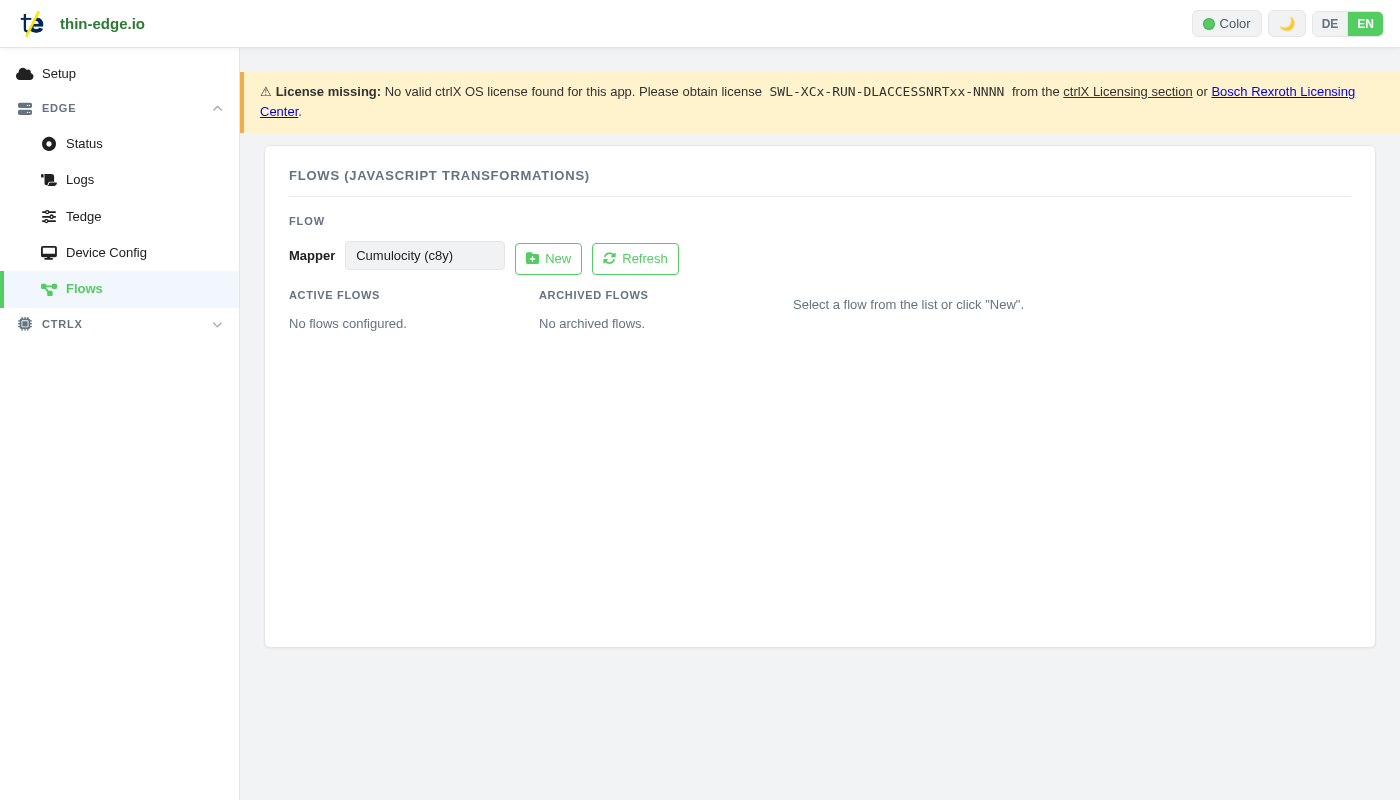
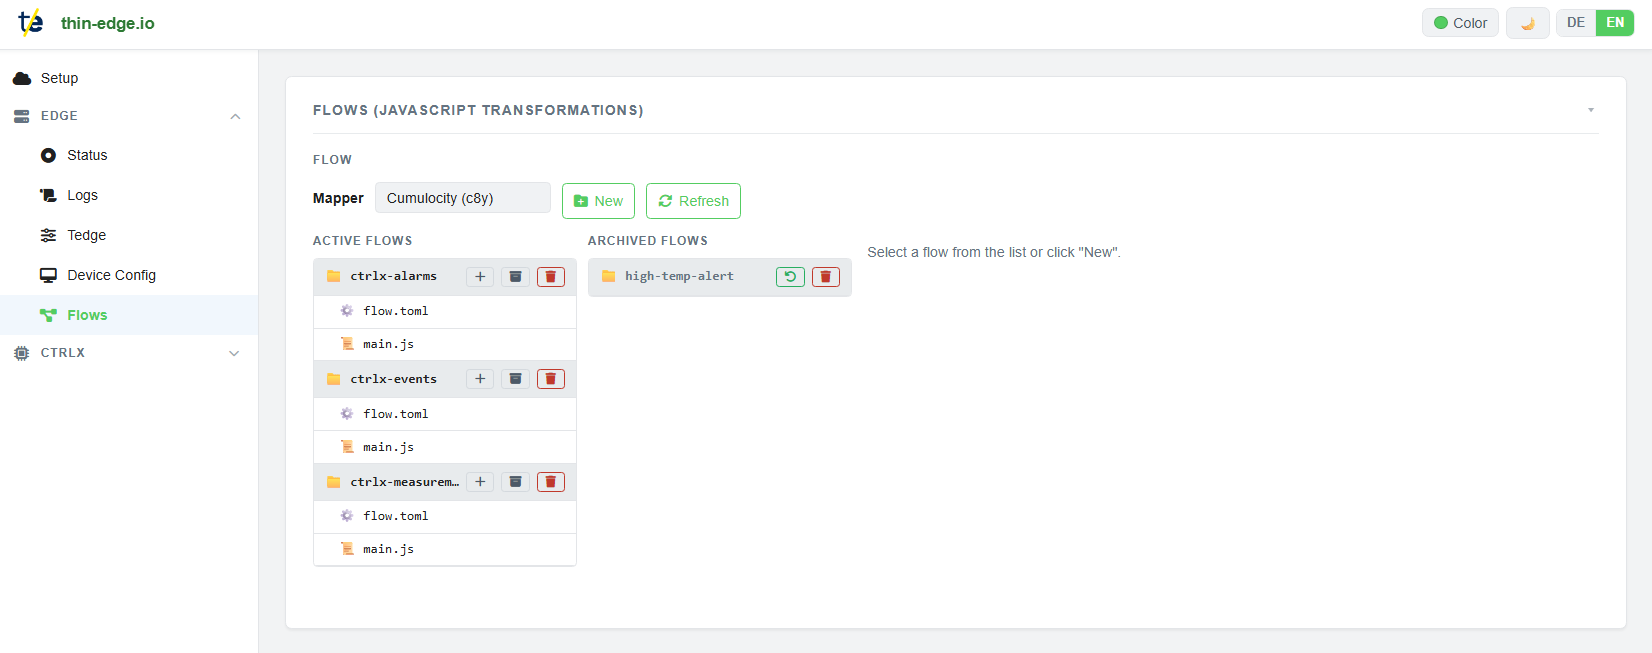
chore: update snapcraft version, docs screenshots, index.html and README

diff --git a/web/www/index.html b/web/www/index.html
@@ -962,6 +962,31 @@
                     Request Certificate
                   </button>
                 </div>
+                <!-- Action buttons: Self-signed mode -->
+                <div
+                  id="action-buttons-self"
+                  style="
+                    display: none;
+                    flex-wrap: wrap;
+                    gap: 6px;
+                    margin-top: 16px;
+                  "
+                >
+                  <button
+                    class="btn btn-default btn-sm"
+                    onclick="manageCertificate()"
+                    data-i18n="device.renew_cert"
+                  >
+                    Renew
+                  </button>
+                  <button
+                    class="btn btn-primary btn-sm"
+                    onclick="toggleCertUploadForm()"
+                    data-i18n="cloud.upload_self_cert"
+                  >
+                    Upload Certificate
+                  </button>
+                </div>
               </div>
 
               <!-- ── Column 3: Certificate Details ── -->

diff --git a/README.md b/README.md
@@ -1,6 +1,6 @@
 # thin-edge.io for ctrlX AUTOMATION (WORK IN PROGRESS)
 
-[![Version](https://img.shields.io/badge/version-2.0.0-blue)](https://github.com/thin-edge/tedge-ctrlx-os)
+[![Version](https://img.shields.io/badge/version-0.1.0-blue)](https://github.com/thin-edge/tedge-ctrlx-os)
 [![License](https://img.shields.io/badge/license-Apache%202.0-green)](LICENSE)
 [![Architecture](https://img.shields.io/badge/arch-amd64%20%7C%20arm64-lightgrey)](https://github.com/thin-edge/tedge-ctrlx-os)
 
@@ -39,7 +39,7 @@ tedge-ctrlx-os/
 
 ## Components
 
-### Core Services (thin-edge.io v1.7.1)
+### Core Services (thin-edge.io v2.0.0)
 | Service | Description |
 |---------|-------------|
 | `tedge` | CLI tool for configuration and management |
@@ -53,8 +53,10 @@ tedge-ctrlx-os/
 ### Plugins
 | Plugin | Description |
 |--------|-------------|
-| `tedge-file-config-plugin` | Configuration file management |
-| `tedge-snap-plugin` | Lists installed snaps in Cumulocity software inventory (read-only, install/remove not supported) |
+| `tedge-file-config-plugin` | Configuration file management via Cumulocity configuration management |
+| `c8y-remote-access-plugin` | Cumulocity remote access (SSH tunnel via Cloud Remote Access) |
+| `c8y-firmware-plugin` | Firmware update support via Cumulocity firmware management |
+| `tedge-snap-plugin` | Lists installed snaps in Cumulocity software inventory (read-only, install/remove not supported on ctrlX CORE) |
 
 ### Custom Services
 | Service | Description |
@@ -70,28 +72,9 @@ After installation, the configuration UI is accessible via the ctrlX CORE sideba
 ```
 https://<device-ip>/thin-edge-io/
 ```
-
-### UI Sections
-
-Each section is a collapsible card in the sidebar UI. All sections are always visible simultaneously (no navigation required).
-
 ---
 
-#### CONNECTION STATUS
 
-Three-column live status dashboard, auto-refreshing every 30 seconds (also on demand via **Refresh Status** button):
-
-| Column | Items |
-|--------|-------|
-| **Services** | MQTT Broker, Tedge Agent, Datalayer Bridge, Watchdog, Log Manager — each label is clickable to restart the service |
-| **Mappers** | Cumulocity IoT, AWS IoT, Azure IoT — shows whether the mapper process is running |
-| **Cloud Connections** | Cumulocity IoT, AWS IoT, Azure IoT — shows MQTT bridge state (`$SYS/broker/connection/*/state`) |
-
-Status indicators:
-- 🟢 **Running** — process active
-- 🔴 **Stopped** — process not running  
-- ⚫ **Inactive** — disabled/not configured
-- ⚪ **Unknown** — not yet checked
 
 ---
 
@@ -105,7 +88,7 @@ Three tabs — **Cumulocity IoT**, **AWS IoT**, **Azure IoT**:
 | **AWS IoT** | AWS IoT Endpoint URL (e.g. `xxxxxxxxxx.iot.us-east-1.amazonaws.com`), Enable AWS Mapper toggle |
 | **Azure IoT** | Azure IoT Hub URL (e.g. `your-hub.azure-devices.net`), Enable Azure Mapper toggle |
 
-Each tab has a **Save Configuration** button that writes values via `POST /api/config/{cloud}`. The **Enable Mapper** toggle immediately starts (`snapctl start thin-edge-io.tedge-mapper-<cloud>`) or stops (`snapctl stop`) the corresponding mapper service — no manual restart required.
+Each tab has a **Save Configuration** button that writes values via `POST /api/config/{cloud}`. 
 
 ---
 
@@ -116,12 +99,24 @@ Left panel — device identity:
 | Element | Description |
 |---------|-------------|
 | **Device ID** | Read-only; the unique device identifier derived from the serial number |
-| **Device Name** | Editable CN used when creating / renewing the X.509 certificate |
+| **External Device ID** | Editable CN used when creating / renewing the X.509 certificate |
+| **Certificate Mode** | Toggle between **Self-Signed** and **CA-Signed** certificate modes |
 | **Certificate Status** | Indicates whether a valid device certificate exists |
 | **Upload Status** | Shows whether the certificate has been uploaded to Cumulocity (persisted in `tedge-web-config.json`) |
-| **Save** | Saves device name changes |
-| **Renew Certificate** | Recreates the certificate with the current Device Name as CN |
+
+*Self-signed mode:*
+
+| Element | Description |
+|---------|-------------|
+| **Renew** | Recreates the self-signed certificate with the current External Device ID as CN |
 | **Upload Certificate** | Expands a credential form (Cumulocity username + password) and uploads the certificate via `POST /api/cert/upload/c8y` |
+
+*CA-signed mode:*
+
+| Element | Description |
+|---------|-------------|
+| **Download Status** | Shows whether the signed certificate has been downloaded from the CA (persisted in `tedge-web-config.json`) |
+| **Request Certificate** | Sends a CSR to the configured CA and downloads the signed certificate |
 
 Right panel (shown when a certificate exists): **Certificate Details** — displays subject, issuer, validity dates, and fingerprint.
 
@@ -129,7 +124,7 @@ Right panel (shown when a certificate exists): **Certificate Details** — displ
 
 #### CONNECT DEVICE
 
-Three tabs — **Cumulocity IoT**, **AWS IoT**, **Azure IoT** — each with:
+Four Buttons — **Cumulocity IoT**, **AWS IoT**, **Azure IoT** — each with:
 
 - **Connect** — runs `tedge connect <cloud>`
 - **Reconnect** — runs `tedge reconnect <cloud>`
@@ -139,17 +134,6 @@ Three tabs — **Cumulocity IoT**, **AWS IoT**, **Azure IoT** — each with:
 For **Cumulocity IoT** only, an additional **MQTT Port** toggle selects between:
 - `Core MQTT (8883)` — standard TLS MQTT
 - `MQTT Service (9883)` — Cumulocity MQTT Service (connection only; SmartREST operations not supported)
-
-**Test Messages** section (bottom, shared across all tabs):
-
-| Button | MQTT Topic |
-|--------|-----------|
-| Test Measurement | publishes a sample measurement payload |
-| Test Event | publishes a sample event payload |
-| Test Alarm | publishes a sample alarm payload |
-
-Output of connect/disconnect/test operations appears in the **Logs & Diagnostics** viewer.
-
 ---
 
 #### LOGS & DIAGNOSTICS
@@ -158,24 +142,52 @@ Live log viewer with controls:
 
 | Control | Options |
 |---------|---------|
-| **Service** | `tedge-agent`, `tedge-mapper-c8y`, `tedge-mapper-aws`, `tedge-mapper-az`, `tedge-bridge`, `log-upload`, `mosquitto`, `webserver` |
+| **Service** | `tedge-agent`, `tedge-mapper`, `tedge-bridge`, `log-upload`, `mosquitto`, `webserver` ,``snap-hooks|
 | **Log Level** | `error`, `warn`, `info` (default), `debug`, `trace` |
 | **Apply Level** | Writes the selected level via `RUST_LOG` to `$SNAP_DATA/log-levels/<service>` and restarts the service |
 | **Load Logs** | Fetches recent log lines via `GET /api/logs?service=<name>` |
 | **Copy** | Copies viewer content to clipboard |
+| **Diag Upload** | Triggers a diagnostics upload to the cloud (only supported for Cumulocity IoT; requires `c8y-remote-access-plugin` to be enabled)
 
-The viewer is a 320 px high monospace scrollable area.
 
 ---
 
 #### TEDGE CONFIGURATION
 
-Read-only view of the complete `tedge config list` output (equivalent to running `thin-edge-io.tedge config list` on the device):
+Read-only diagnostic output viewer. Select a command from the dropdown and press **Load**:
 
-- **Load** — fetches via `GET /api/tedge-config-list`
-- **Copy** — copies all lines to clipboard
+| Command | Equivalent CLI | Endpoint |
+|---------|---------------|----------|
+| `tedge config list` | `tedge config list` | `GET /api/tedge-config-list` |
+| `tedge config list --all` | Includes defaults | `GET /api/tedge-config-list-all` |
+| `tedge config list --doc` | With documentation | `GET /api/tedge-config-list-doc` |
+| `tedge bridge inspect c8y` | Mosquitto bridge config | `GET /api/tedge-bridge-inspect` |
 
-The viewer is a 400 px high monospace scrollable area.
+- **Load** — fetches the selected command output
+- **Copy** — copies the output to clipboard
+
+---
+
+#### FLOWS
+
+Manages thin-edge.io **flows** — script-based processing pipelines for MQTT messages, stored as files on the device.
+
+**Toolbar:**
+
+| Control | Description |
+|---------|-------------|
+| **Mapper** selector | Choose target mapper: `Cumulocity (c8y)`, `AWS IoT (aws)`, or `Azure IoT (az)` |
+| **New Flow** | Opens inline form; creates a new flow directory with a `flow.toml` template via `POST /api/flows/file` |
+| **Refresh** | Re-fetches all flows via `GET /api/flows?mapper=<mapper>` |
+
+**Split layout:**
+
+- **Left — Active Flows** tree: lists active flows with their files; click a file to open it in the editor; each flow row has an **Archive** button
+- **Left — Archived Flows** tree: lists archived flows; each row has a **Restore** button (`POST /api/flows/restore`)
+- **Right — Editor**: shows the selected file content in a resizable monospace textarea
+  - **Save** — writes the file via `POST /api/flows/file?mapper=...&flow=...&file=...`
+  - **Delete File** — removes the file via `DELETE /api/flows/file?...`
+  - **Add File** — inline form to add a new file to the current flow (allowed extensions: `.js`, `.toml`, `.toml.template`)
 
 ---
 
@@ -206,20 +218,20 @@ The file's full path is shown below the selector as a hint. The editor textarea 
 
 Manages the optional ctrlX Data Layer ↔ MQTT bridge service (`tedge-datalayer-bridge`).
 
-**Status row:** Shows the bridge service dot and connection state; **Refresh** button re-polls `GET /api/datalayer/status`.
+**Datalayer Bridge Connection** toggle — enables/disables the bridge (top of section).
 
 **Connection Settings** (collapsible `<details>`):
 
 | Field | Description |
 |-------|-------------|
+| Static Token | Optional bearer token (overrides username/password; shown first) |
 | Base URL | ctrlX Data Layer base URL (default `https://localhost`) |
 | Username | Data Layer username (default `boschrexroth`) |
 | Password | Data Layer password |
 | Poll interval (ms) | How often the bridge polls Data Layer nodes (default `5000`) |
-| Static Token | Optional bearer token (overrides username/password) |
-| Enabled toggle | Enable/disable the bridge |
-| Accept invalid TLS certs | Skip TLS verification (useful for self-signed certificiates on local device) |
-| **Save Connection** | Saves via `POST /api/datalayer/config` |
+| Accept invalid TLS certs | Skip TLS verification (useful for self-signed certificates on local device) |
+
+Settings are saved via the global **Save** button in the page toolbar (`POST /api/datalayer/config`).
 
 **Node Browser** (collapsible `<details>`):
 - Path input + **Browse** button — lists child nodes of the given Data Layer path via `GET /api/datalayer/browse`
@@ -228,14 +240,28 @@ Manages the optional ctrlX Data Layer ↔ MQTT bridge service (`tedge-datalayer-
 
 **Mappings Form** (shown when adding or editing):
 
+A **Mapping Type toggle** switches between two modes:
+
+*Datalayer mode* (default) — reads a Data Layer node and publishes to MQTT:
+
 | Field | Description |
 |-------|-------------|
 | Datalayer Path | Full path to the Data Layer node (e.g. `/framework/metrics/system/memfree-mb`) |
-| Direction | `Datalayer ➔ tedge` (read) or `tedge ➔ Datalayer` (write) |
 | tedge MQTT Topic | Auto-suggested based on transform type; editable (e.g. `c8y/mqtt/out/myTopic`) |
 | Transform | `raw`, `measurement`, `event`, or `alarm` |
 | Field name | JSON field name in the payload (auto-derived from path if left empty) |
 | Unit | Optional unit string (e.g. `°C`, `MB`, `%`) — published as top-level `"unit"` field |
+
+*Flow mode* — routes a Data Layer node through a thin-edge.io flow script:
+
+| Field | Description |
+|-------|-------------|
+| Datalayer Path | Full path to the Data Layer node |
+| Flow selector | Choose an existing flow from the Flows section |
+| tedge MQTT Topic | Output topic written by the flow |
+| Transform | `raw`, `measurement`, `event`, or `alarm` |
+| Field name | JSON field name in the payload |
+| Unit | Optional unit string |
 
 **Measurement Payload Format** (when using Cumulocity MQTT Service, port 9883):
 
@@ -261,27 +287,20 @@ Manages the optional ctrlX Data Layer ↔ MQTT bridge service (`tedge-datalayer-
 
 Shows the ctrlX OS licenses currently active on the device. Loaded automatically when the section is opened.
 
-| Element | Description |
-|---------|-------------|
-| License table | Lists all capabilities returned by the ctrlX License Manager API (`/license-manager/api/v1/capabilities`) — name, permanent flag, expiry date, count |
-| **Refresh** button | Re-fetches `GET /api/licenses` |
-| **Manage Licenses** button | Opens `/license-manager` (ctrlX License Manager UI) in a new tab |
+| Column | Description |
+|--------|-------------|
+| **Name** | Capability / license name |
+| **Status** | Current license status (e.g. active, expired) |
+| **Valid Until** | License expiry date |
+| **Qty** | Licensed quantity |
+
+- **Manage Licenses** button — opens `/license-manager` (ctrlX License Manager UI) in a new tab
 
 If no valid license is held, a **red warning banner** is shown at the top of the page with a link to the Licensing section and the Bosch Rexroth Licensing Center.
 
 ---
 
-#### SYSTEM INFORMATION
 
-Displays read-only device and build metadata:
-
-| Field | Source |
-|-------|--------|
-| **Version** | Snap version (from `GET /api/build-info`) |
-| **Build** | Build number / Git commit from `configs/build-info.txt` |
-| **Architecture** | CPU architecture (`amd64` or `arm64`) |
-
-**Refresh** button reloads all status data (same as the button in Connection Status).
 
 ### Web API (REST)
 

diff --git a/docs/manual.md b/docs/manual.md
@@ -392,6 +392,8 @@ Opened by clicking **+ Mapping** or clicking a row in the mapping table.
 > **Screenshot**: Datalayer — Add Mapping form open
 >
 > ![screenshot](pictures/08b-datalayer-mapping-form.png)
+> ![screenshot](pictures/08c-datalayer-mapping-form.png)
+
 
 **ctrlX Datalayer Mapping** toggle at the top of the form — enables/disables this specific mapping.
 
